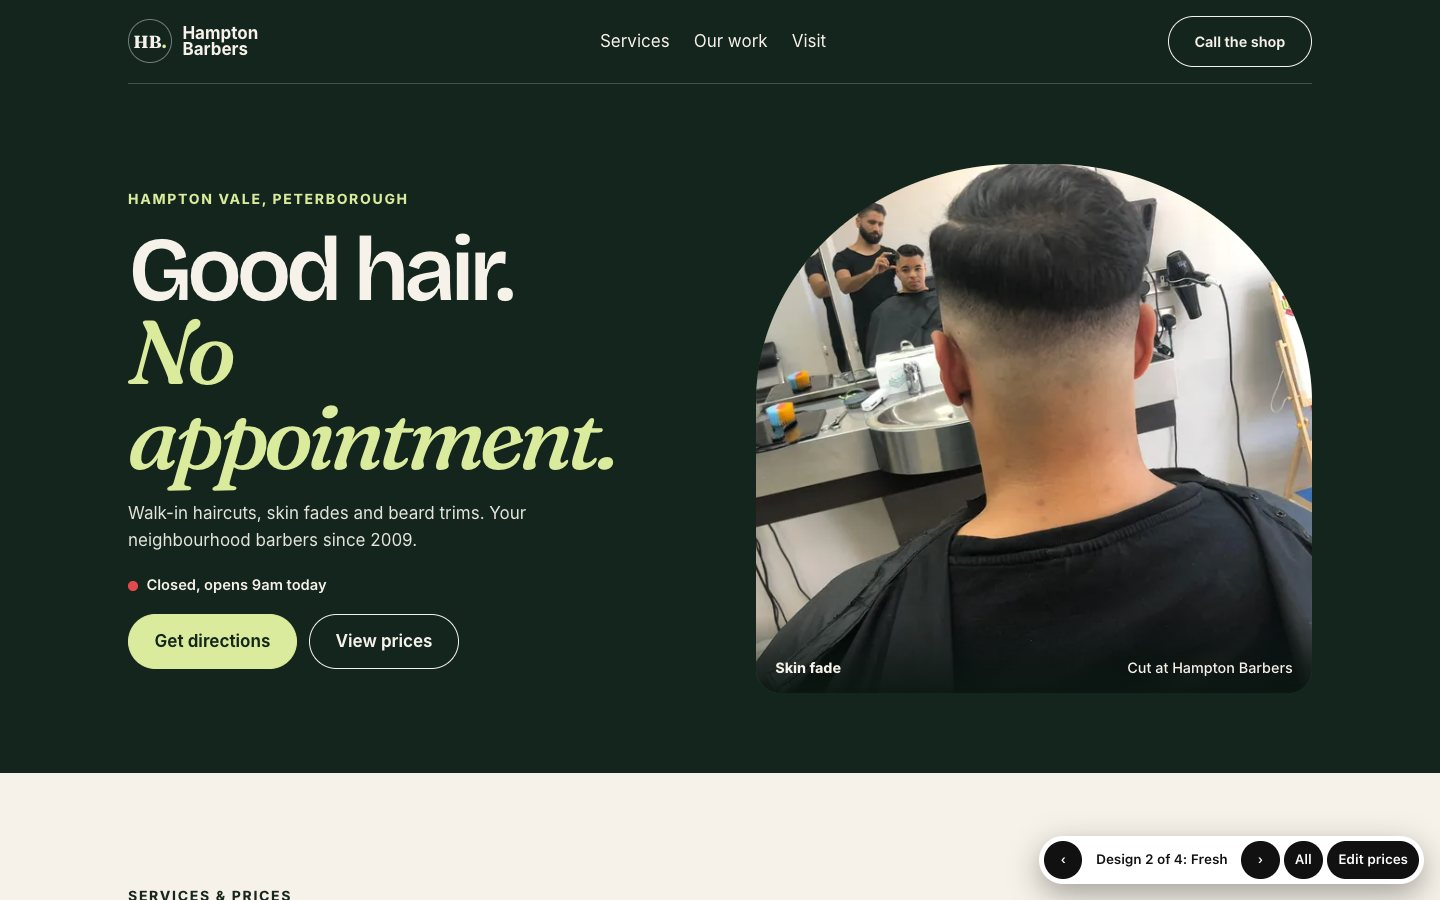
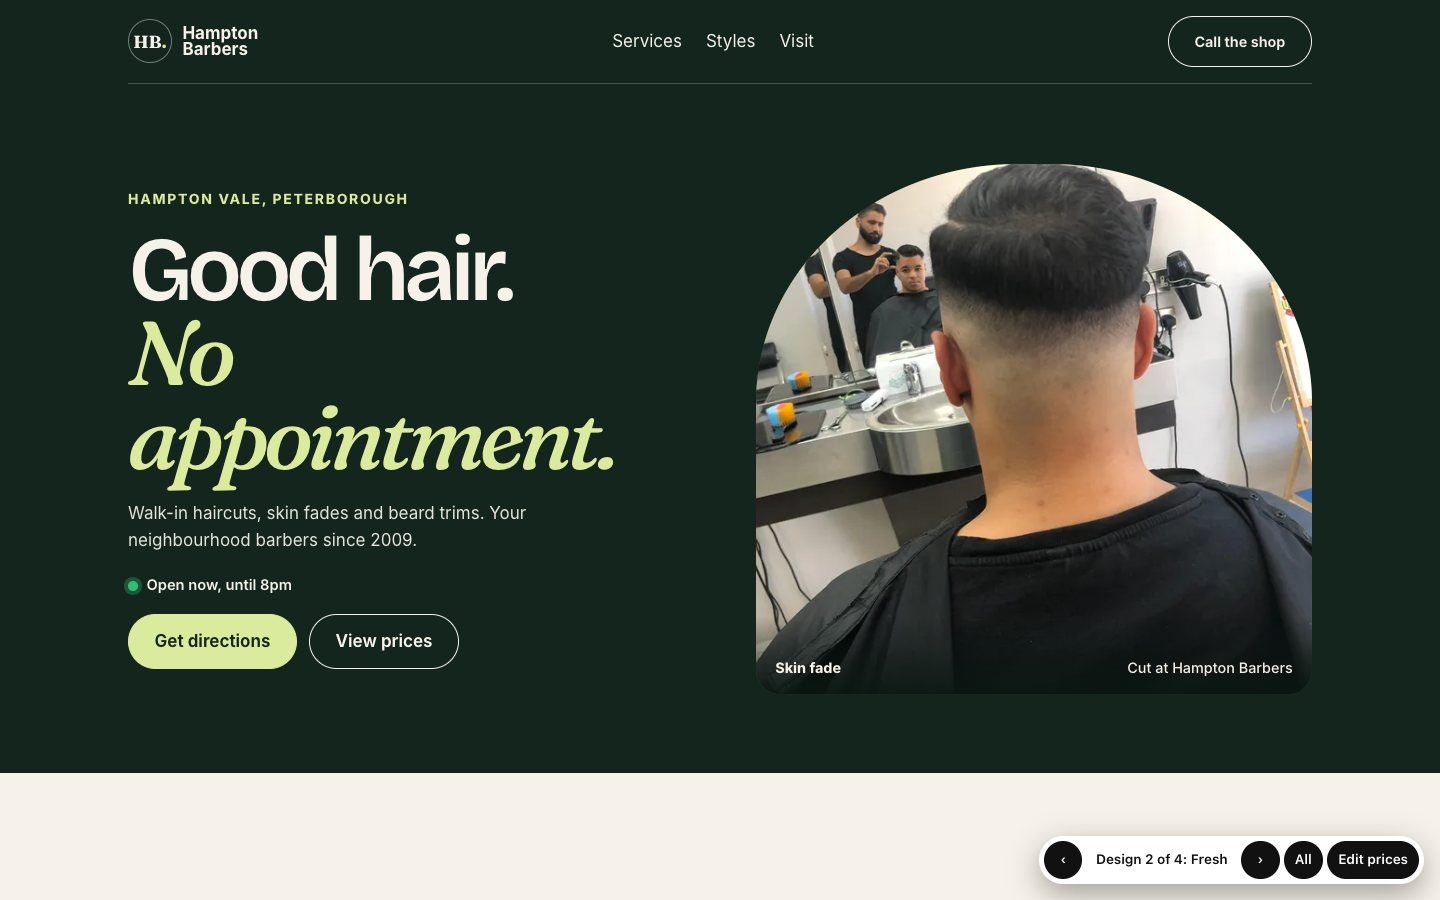
Add an example style gallery, more shop photos, and give each design its own motion.

diff --git a/src/styles/global.css b/src/styles/global.css
@@ -62,10 +62,94 @@ main { overflow-x: clip; }
 .draftnote { position: fixed; left: 1rem; bottom: 1rem; z-index: 70; max-width: 15rem; margin: 0; padding: .55rem .8rem; border-radius: 8px; background: #fff7d6; color: #3a3000; border: 1px solid #e6d68a; font: 600 .8rem/1.3 system-ui, sans-serif; }
 @media (max-width: 700px) { .draftnote { bottom: 7.5rem; } }
 
+
+/* ---------- Per-design motion: the same markup animates differently in each design ---------- */
+/* Heritage: slow, ink-like. Things fade out of a soft blur; photos "develop" from sepia. */
+.js body.heritage [data-reveal]:where(:not([data-reveal='img'], [data-reveal='develop'])) { transform: none; filter: blur(8px); letter-spacing: .02em; transition: opacity 1.1s ease, filter 1.1s ease, letter-spacing 1.2s ease; transition-delay: calc(var(--d, 0) * 120ms); }
+.js body.heritage [data-reveal].in { filter: none; letter-spacing: normal; }
+.js body.heritage :is([data-reveal='img'], [data-reveal='develop'])::after { display: none; }
+.js body.heritage :is([data-reveal='img'], [data-reveal='develop']) { opacity: 1; transform: none; }
+.js body.heritage :is([data-reveal='img'], [data-reveal='develop']) img { transform: none; filter: sepia(1) brightness(1.9) contrast(.55) blur(3px); transition: filter 1.6s ease; transition-delay: calc(var(--d, 0) * 160ms); }
+.js body.heritage :is([data-reveal='img'], [data-reveal='develop']).in img { filter: sepia(.25) contrast(1.02); }
+
+/* Fresh: springy. Things pop in with a little overshoot and tilt. */
+.js body.fresh [data-reveal] { transform: translateY(24px) scale(.88) rotate(-2.5deg); transition: opacity .5s ease, transform .85s cubic-bezier(.34,1.56,.64,1); transition-delay: calc(var(--d, 0) * 70ms); }
+.js body.fresh [data-reveal='img']::after { display: none; }
+.js body.fresh [data-reveal='img'] { opacity: 0; }
+.js body.fresh [data-reveal='img'] img { transform: none; }
+.js body.fresh [data-reveal].in { opacity: 1; transform: none; }
+
+/* Street: hard and fast. Horizontal wipes with a lime blade. */
+.js body.street [data-reveal]:where(:not([data-reveal='img'])) { opacity: 1; transform: skewX(-6deg); transform-origin: 0 50%; clip-path: inset(0 97% 0 0); transition: clip-path .55s cubic-bezier(.86,0,.07,1), transform .55s cubic-bezier(.86,0,.07,1); transition-delay: calc(var(--d, 0) * 45ms); }
+.js body.street [data-reveal].in { transform: none; clip-path: inset(0 -2% 0 0); }
+.js body.street [data-reveal='img']::after { background: var(--accent); transform-origin: 100% 50%; transition: transform .6s cubic-bezier(.86,0,.07,1); }
+.js body.street [data-reveal='img'].in::after { transform: scaleX(0); }
+.js body.street [data-reveal='img'] img { transform: none; filter: grayscale(1) contrast(1.15); }
+
+/* Club: calm and luxurious. Slow rise out of soft focus; photos open from an arch. */
+.js body.club [data-reveal]:where(:not([data-reveal='img'], [data-reveal='arch'])) { transform: translateY(46px); filter: blur(14px); transition: opacity 1.4s cubic-bezier(.16,1,.3,1), transform 1.6s cubic-bezier(.16,1,.3,1), filter 1.4s cubic-bezier(.16,1,.3,1); transition-delay: calc(var(--d, 0) * 140ms); }
+.js body.club [data-reveal].in { filter: none; }
+.js body.club :is([data-reveal='img'], [data-reveal='arch']) { opacity: 1; transform: none; }
+.js body.club :is([data-reveal='img'], [data-reveal='arch'])::after { display: none; }
+.js body.club :is([data-reveal='img'], [data-reveal='arch']) img { clip-path: inset(38% 22% 0 22% round 999px 999px 0 0); transform: scale(1.15); transition: clip-path 1.8s cubic-bezier(.16,1,.3,1), transform 2.2s cubic-bezier(.16,1,.3,1); transition-delay: calc(var(--d, 0) * 160ms); }
+.js body.club :is([data-reveal='img'], [data-reveal='arch']).in img { clip-path: inset(0 round 0); transform: none; }
+
+/* ---------- Style gallery (shared markup, three looks) ---------- */
+.sg-credit { margin-top: 2rem; font-size: .78rem; line-height: 1.5; color: var(--muted); max-width: 60rem; }
+.sg-credit a { color: inherit; }
+
+.sg-plates { display: grid; grid-template-columns: repeat(4, 1fr); gap: clamp(1rem, 2.5vw, 2rem); text-align: left; }
+.sg-plate__frame { border: 1px solid var(--accent); padding: .45rem; outline: 1px solid var(--line); outline-offset: 4px; overflow: hidden; }
+.sg-plate__frame img { width: 100%; aspect-ratio: 3 / 4; object-fit: cover; transition: transform 1.2s ease; }
+.sg-plate:hover .sg-plate__frame img { transform: scale(1.05); }
+.sg-plate figcaption { display: grid; gap: .2rem; margin-top: .9rem; text-align: center; }
+.sg-plate figcaption span { font-size: .7rem; letter-spacing: .3em; text-transform: uppercase; color: var(--accent); }
+.sg-plate figcaption b { font-family: var(--display); font-style: italic; font-weight: 400; font-size: 1.35rem; }
+.sg-plate figcaption small { color: var(--muted); font-size: .85rem; line-height: 1.45; }
+@media (max-width: 900px) { .sg-plates { grid-template-columns: repeat(2, 1fr); } }
+
+.sg-index { position: relative; }
+.sg-index ol { border-top: 2px solid var(--text); }
+.sg-index li { display: grid; grid-template-columns: 4rem 1fr auto; align-items: center; gap: 1rem; padding: 1rem .75rem; border-bottom: 1px solid var(--line); transition: background-color .15s, color .15s; }
+.sg-index li:hover { background: var(--accent); color: var(--on-accent); }
+.sg-index li:hover small, .sg-index li:hover .sg-no { color: inherit; }
+.sg-no { font-family: var(--display); font-size: 1.5rem; color: var(--accent); }
+.sg-name b { display: block; font-family: var(--display); font-weight: 400; text-transform: uppercase; font-size: clamp(2.1rem, 5.4vw, 4.6rem); line-height: .88; }
+.sg-name small { color: var(--muted); font-size: .9rem; }
+.sg-tag { font-weight: 800; font-size: .72rem; letter-spacing: .16em; text-transform: uppercase; border: 1.5px solid currentColor; padding: .3rem .6rem; }
+.sg-thumb { display: none; }
+.sg-float { position: absolute; left: 0; top: 0; width: 380px; aspect-ratio: 3 / 4; pointer-events: none; z-index: 5; opacity: 0; transition: opacity .2s; border: 3px solid var(--accent); }
+.sg-float.show { opacity: 1; }
+.sg-float img { position: absolute; inset: 0; width: 100%; height: 100%; object-fit: cover; opacity: 0; filter: grayscale(1) contrast(1.15); }
+.sg-float img.on { opacity: 1; }
+@media (hover: none), (max-width: 800px) {
+  .sg-float { display: none; }
+  .sg-index li { grid-template-columns: 2.4rem 1fr 5.5rem; padding-inline: .25rem; }
+  .sg-tag { display: none; }
+  .sg-thumb { display: block; width: 5.5rem; height: 7rem; object-fit: cover; filter: grayscale(1); }
+}
+
+.sg-look { display: grid; grid-template-columns: repeat(4, 1fr); gap: clamp(1rem, 2.4vw, 2rem); align-items: start; }
+.sg-look__item:nth-child(4n+2), .sg-look__item:nth-child(4n+4) { margin-top: 3rem; }
+.sg-look__arch { border-radius: 999px 999px 16px 16px; overflow: hidden; }
+.sg-look__arch img { width: 100%; aspect-ratio: 2 / 3; object-fit: cover; transition: transform 1.4s cubic-bezier(.16,1,.3,1); }
+.sg-look__item:hover .sg-look__arch img { transform: scale(1.06); }
+.sg-look figcaption { display: grid; gap: .25rem; margin-top: .9rem; }
+.sg-look figcaption em { font-family: var(--display); font-size: 1.45rem; color: var(--accent); }
+.sg-look figcaption small { color: var(--muted); font-size: .88rem; line-height: 1.45; }
+@media (max-width: 860px) { .sg-look { grid-template-columns: repeat(2, 1fr); } .sg-look__item:nth-child(4n+4) { margin-top: 0; } .sg-look__item:nth-child(even) { margin-top: 2.5rem; } .sg-look__item:nth-child(odd) { margin-top: 0; } }
+
+/* ---------- The shop's own photos ---------- */
+.shop-photos { display: grid; grid-template-columns: repeat(4, 1fr); gap: 1rem; }
+.shop-photos img { width: 100%; aspect-ratio: 4 / 3; object-fit: cover; }
+.shop-photos figcaption { font-size: .85rem; margin-top: .5rem; color: var(--muted); }
+@media (max-width: 800px) { .shop-photos { grid-template-columns: repeat(2, 1fr); } }
+
 @media (prefers-reduced-motion: reduce) {
   *, *::before, *::after { animation: none !important; transition: none !important; scroll-behavior: auto !important; }
-  .js [data-reveal], .js [data-reveal='img'] img { opacity: 1; transform: none; }
-  .js [data-reveal='img']::after { display: none; }
+  .js [data-reveal], .js [data-reveal] img { opacity: 1 !important; transform: none !important; filter: none !important; clip-path: none !important; letter-spacing: normal !important; }
+  .js [data-reveal]::after { display: none !important; }
+  .sg-float { display: none !important; }
 }
 
 [data-shop-notice]:not([hidden]), [data-special-hours]:not([hidden]) {

diff --git a/src/data/site.ts b/src/data/site.ts
@@ -55,9 +55,26 @@ export const menu: Category[] = [
   ] },
 ];
 
+// Example photos for each style (free Unsplash licence, not taken at Hampton Barbers).
+export type Style = { key: string; name: string; tags: string[]; blurb: string; by: string; byUrl: string; pos?: string };
+export const styles: Style[] = [
+  { key: 'skin-fade', name: 'Skin Fade', tags: ['Fades'], blurb: 'Faded down to the skin at the back and sides, blending into length on top.', by: 'Victor Sirbu', byUrl: 'https://unsplash.com/@victorsirbu04', pos: '50% 35%' },
+  { key: 'textured-fade', name: 'Textured Fade', tags: ['Fades'], blurb: 'A fade with choppy, textured length on top. Styles in seconds with a little clay.', by: 'Langanis Studio', byUrl: 'https://unsplash.com/@langanisstudio', pos: '45% 40%' },
+  { key: 'afro-taper', name: 'Taper on Curly Hair', tags: ['Fades'], blurb: 'A clean taper at the sides that keeps natural curls full on top.', by: 'Obi', byUrl: 'https://unsplash.com/@obionyeador', pos: '50% 45%' },
+  { key: 'crew-cut', name: 'Crew Cut', tags: ['Fades'], blurb: 'Short and neat all round, a touch longer on top. Always tidy, no effort.', by: 'Mitchell Orr', byUrl: 'https://unsplash.com/@mitchorr', pos: '55% 35%' },
+  { key: 'short-back-sides', name: 'Short Back and Sides', tags: ['Scissor cuts'], blurb: 'The British classic: short and clean round the ears, length kept on top.', by: 'Stephan Louis', byUrl: 'https://unsplash.com/@stephanlouis', pos: '50% 22%' },
+  { key: 'textured-crop', name: 'Textured Crop', tags: ['Scissor cuts'], blurb: 'Short fringe pushed forward with lots of texture. Low on upkeep.', by: 'Thomas Marquize', byUrl: 'https://unsplash.com/@tomarquize', pos: '50% 25%' },
+  { key: 'quiff', name: 'Quiff', tags: ['Scissor cuts'], blurb: 'Short sides with volume swept up and back at the front.', by: 'Damian Barczak', byUrl: 'https://unsplash.com/@barczakshoots', pos: '50% 25%' },
+  { key: 'pompadour', name: 'Slick Back', tags: ['Scissor cuts'], blurb: 'Longer on top and combed back, finished with scissors and comb.', by: 'André Reis', byUrl: 'https://unsplash.com/@andrereispt', pos: '55% 30%' },
+  { key: 'beard-sculpt', name: 'Beard Shape-Up', tags: ['Beards & shaves'], blurb: 'Sharp cheek and neck lines on a full beard, matched to your fade.', by: 'Ahmad Ebadi', byUrl: 'https://unsplash.com/@ebadi__ahmad', pos: '50% 30%' },
+  { key: 'beard-trim', name: 'Beard Trim', tags: ['Beards & shaves'], blurb: 'Length taken down and tidied with scissors and clippers.', by: 'Mr Shave', byUrl: 'https://unsplash.com/@mrshave', pos: '50% 30%' },
+  { key: 'cut-throat-shave', name: 'Cut-Throat Finish', tags: ['Beards & shaves'], blurb: 'Edges finished with a straight razor for the crispest line.', by: 'Antonio Reynoso', byUrl: 'https://unsplash.com/@infantleon', pos: '50% 40%' },
+  { key: 'kids-cut', name: 'Kids Cut', tags: ['Kids'], blurb: 'Patient barbers and a smart cut for school, from under 5s upwards.', by: 'Ibrahim Guetar', byUrl: 'https://unsplash.com/@himo_beast1996', pos: '50% 30%' },
+];
+
 export const designs = [
-  { id: 'heritage', name: 'Heritage', blurb: 'Traditional and centred, like a printed barber’s card. Charcoal and brass.' },
-  { id: 'fresh', name: 'Fresh', blurb: 'A modern walk-in homepage with bold photography, a style gallery and easy directions.' },
-  { id: 'street', name: 'Street', blurb: 'Loud black-and-lime poster with giant type. Aimed at a younger crowd.' },
-  { id: 'club', name: 'Club', blurb: 'Calm and upmarket. Green and cream, arched photos, a menu-style price list.' },
+  { id: 'heritage', name: 'Heritage', blurb: 'Old-fashioned barber’s card: centred, charcoal and brass, framed photo plates and slow ink-like motion.' },
+  { id: 'fresh', name: 'Fresh', blurb: 'Bright and friendly: bold photos, a filterable style gallery, bouncy pop-in motion.' },
+  { id: 'street', name: 'Street', blurb: 'Loud black-and-lime poster: giant type, hard wipes, a hover-to-reveal style list.' },
+  { id: 'club', name: 'Club', blurb: 'Calm and upmarket: green and cream, arched lookbook photos, soft slow focus-in motion.' },
 ];

diff --git a/src/styles/fresh.css b/src/styles/fresh.css
@@ -106,3 +106,16 @@ body.fresh {
   from { opacity: 0; transform: translateY(.65rem) scale(.98); }
   to { opacity: 1; transform: none; }
 }
+
+/* Fresh motion: springy pop-ins */
+.fresh-hero__copy.pop > * { animation: fresh-pop .9s cubic-bezier(.34,1.56,.64,1) both; }
+.fresh-hero__copy.pop > :nth-child(2) { animation-delay: .12s; }
+.fresh-hero__copy.pop > :nth-child(3) { animation-delay: .24s; }
+.fresh-hero__copy.pop > :nth-child(4) { animation-delay: .36s; }
+.fresh-hero__copy.pop > :nth-child(5) { animation-delay: .48s; }
+.fresh-hero__photo.up { animation: fresh-swing 1.1s cubic-bezier(.34,1.56,.64,1) .2s both; }
+@keyframes fresh-pop { from { opacity: 0; transform: translateY(30px) scale(.85) rotate(-3deg); } to { opacity: 1; transform: none; } }
+@keyframes fresh-swing { from { opacity: 0; transform: rotate(8deg) scale(.8); } to { opacity: 1; transform: rotate(0); } }
+.fresh-gallery figure:hover { transform: rotate(-1.5deg) scale(1.03); transition: transform .4s cubic-bezier(.34,1.56,.64,1); }
+.fresh-shopphotos { margin-block: 1.5rem; grid-template-columns: repeat(2, 1fr); }
+.fresh-shopphotos img { border-radius: 18px; }
